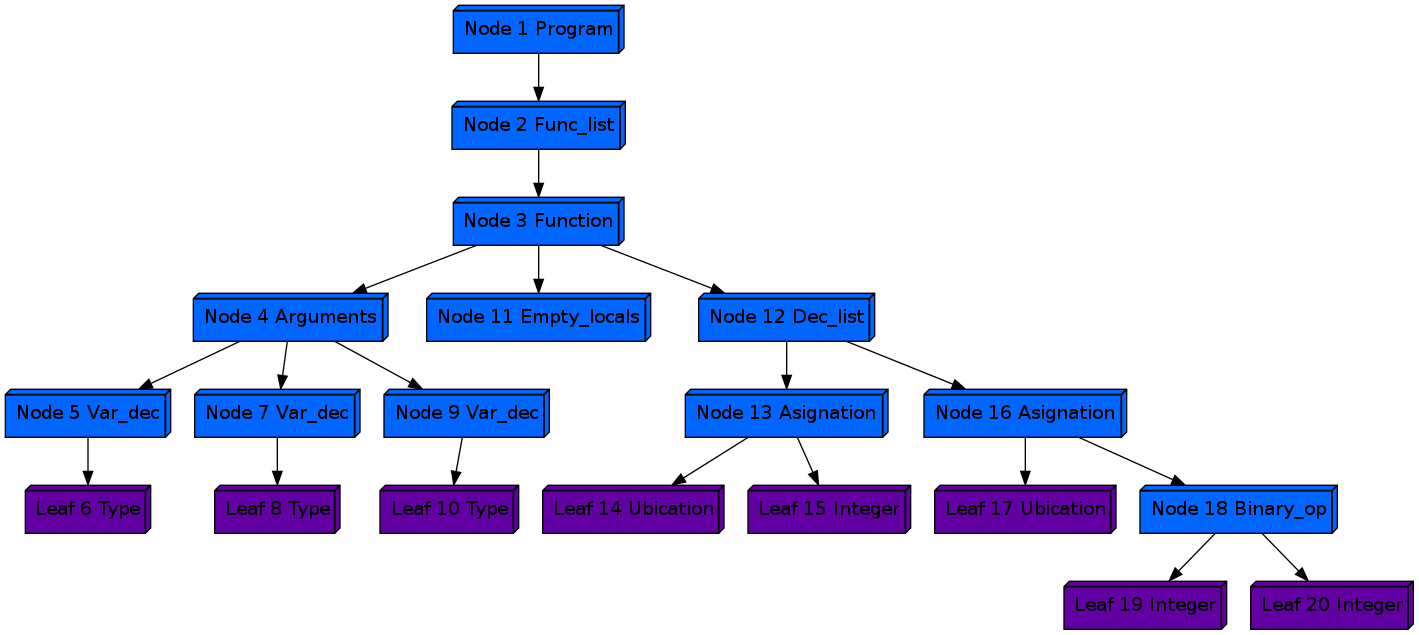
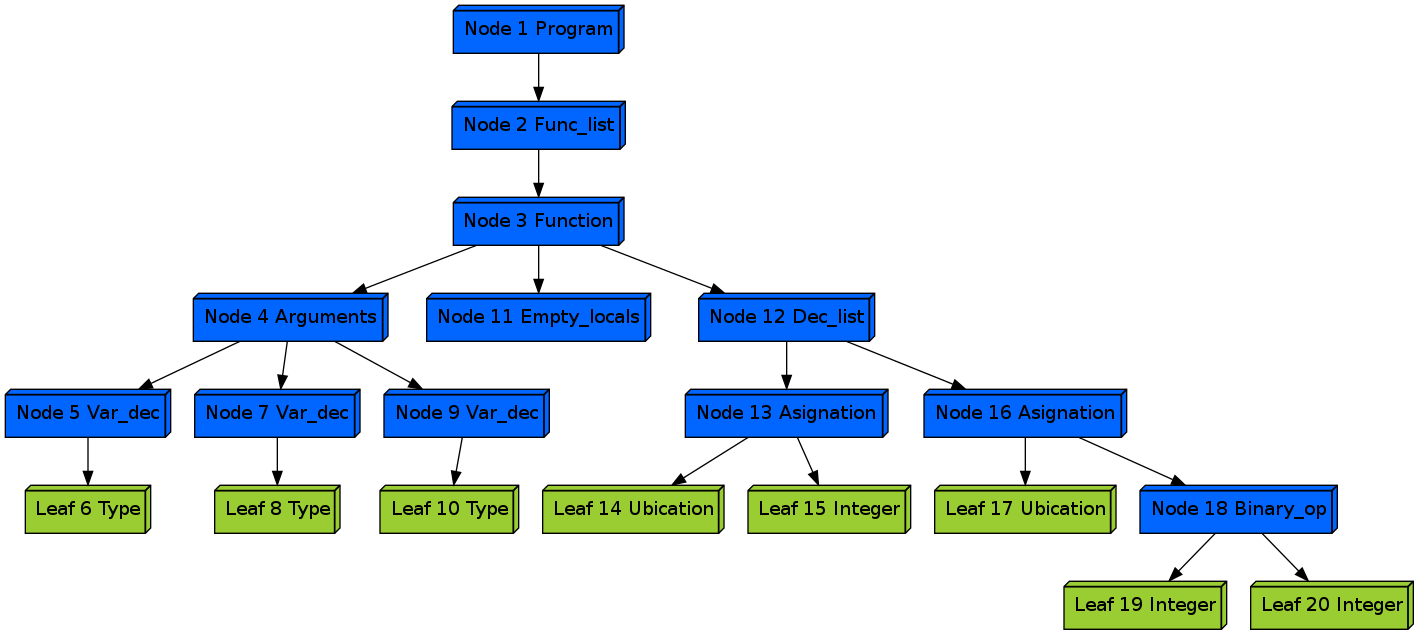
Green leafs because carlos fears purple

Changed region(s): [[0.0, 0.748, 0.8062, 0.8378], [0.7442, 0.8976, 1.0, 1.0]]

diff --git a/mpasast.py b/mpasast.py
@@ -484,5 +484,5 @@ class DotVisitor():
 
     def visit_leaf(self, node):
         string = "Leaf %d %s" % (self.ID(), node.__class__.__name__)
-        return pydot.Node(string, shape='box3d',style="filled", fillcolor="#6200a3")
+        return pydot.Node(string, shape='box3d',style="filled", fillcolor="#9ACD32")
 
